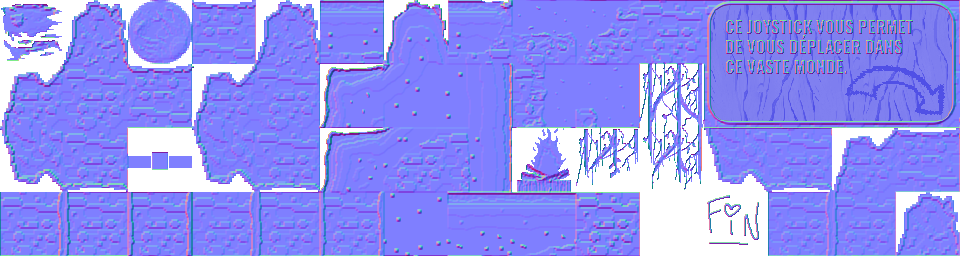
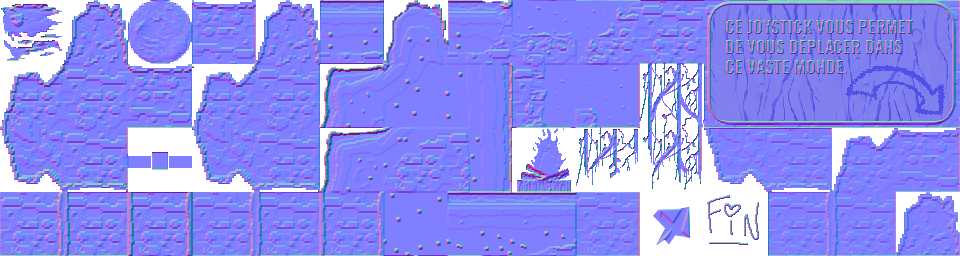
? bug

diff --git a/src/scenes/TableauTiled.js b/src/scenes/TableauTiled.js
@@ -13,6 +13,9 @@ class TableauTiled extends Tableau{
         this.load.image('plan_brune', 'assets/plan_brune.png');
         this.load.image('plan_verte', 'assets/plan_verte.png');
         this.load.image('sate', 'assets/sate.png');
+        this.load.image('sate2', 'assets/sate2.png');
+        this.load.image('sate3', 'assets/sate3.png');
+        this.load.image('sate4', 'assets/sate4.png');
         this.load.image('gp', 'assets/greenParticle.png');
         this.load.image('caillou', 'assets/caillou.png');
         this.load.image('pxlgr', 'assets/pixelgreen.png');
@@ -196,16 +199,18 @@ class TableauTiled extends Tableau{
 
 
         //LES SATELLITES
+        this.sateSprite = ['sate','sate2','sate3','sate4']
         this.satList = [];
         this.satContainer = this.add.container();
 
         this.satObjects = this.map.getObjectLayer('sat')['objects'];
         this.satObjects.forEach(satObject => {
+            let sprite = this.sateSprite[Phaser.Math.Between(0, 3)];
             let sat = new Satellite(
                 this,
                 satObject.x,
                 satObject.y,
-                'sate',
+                sprite,
                 Math.random()*360
             );
             this.satList.push(sat);
